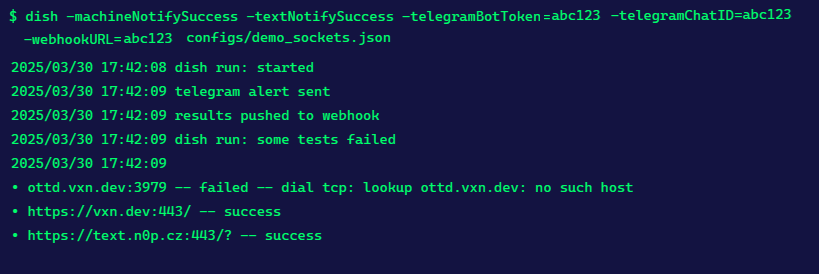
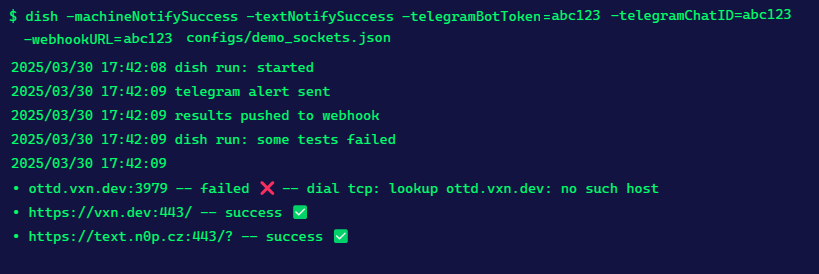
Remove comments, add unicode chars for better text notif readability

Changed region(s): [[0.0305, 0.7299, 0.4274, 0.9051], [0.0305, 0.6423, 0.8242, 0.7299]]

diff --git a/pkg/alert/api.go b/pkg/alert/api.go
@@ -30,7 +30,6 @@ func NewApiSender(httpClient *http.Client, url string, headerName string, header
 	}
 }
 
-// TODO: Fix invalid header field name err when headers are not filled in but API used
 func (s *apiSender) send(m Results, failedCount int) error {
 	// If no checks failed and failedOnly is set to true, there is nothing to send
 	if failedCount == 0 && !s.notifySuccess {
@@ -52,8 +51,6 @@ func (s *apiSender) send(m Results, failedCount int) error {
 
 	url := s.url
 
-	// TODO: move?
-	// TODO: also add to PGW, TG and webhooks?
 	regex, err := regexp.Compile("^(http|https)://")
 	if err != nil {
 		return err
@@ -61,7 +58,6 @@ func (s *apiSender) send(m Results, failedCount int) error {
 
 	match := regex.MatchString(url)
 	if !match {
-		// TODO: mention the protocol must be included?
 		return fmt.Errorf("invalid remote API URL, results have not been pushed")
 	}
 

diff --git a/pkg/netrunner/runner.go b/pkg/netrunner/runner.go
@@ -19,7 +19,6 @@ const agentVersion = "1.9"
 func TestSocket(sock socket.Socket, channel chan<- socket.Result, wg *sync.WaitGroup, timeoutSeconds uint, verbose bool) {
 	defer wg.Done()
 
-	// TODO: move out?
 	regex, err := regexp.Compile("^(http|https)://")
 	if err != nil {
 		log.Printf("regex compilation failed: %v", err)

diff --git a/pkg/alert/telegram.go b/pkg/alert/telegram.go
@@ -1,4 +1,3 @@
-// TODO: Add comments (everywhere)
 package alert
 
 import (
@@ -10,7 +9,7 @@ import (
 )
 
 const baseURL = "https://api.telegram.org"
-const messageTitle = "<b>dish run results</b>:"
+const messageTitle = "\U0001F4E1 <b>dish run results</b>:"
 
 type telegramSender struct {
 	httpClient    *http.Client

diff --git a/pkg/alert/formatter.go b/pkg/alert/formatter.go
@@ -22,8 +22,11 @@ func FormatMessengerText(result socket.Result) string {
 	text += " -- " + status
 
 	if status == "failed" {
+		text += " \u274C" // ❌
 		text += " -- "
 		text += result.Error.Error()
+	} else {
+		text += " \u2705" // ✅
 	}
 
 	text += "\n"

diff --git a/cmd/dish/main.go b/cmd/dish/main.go
@@ -93,8 +93,6 @@ func main() {
 	results := fanInChannels(channels...)
 	wg.Wait()
 
-	// TODO: add unicode chars for success & failure
-
 	// Collect results
 	for result := range results {
 		if !result.Passed || result.Error != nil {
